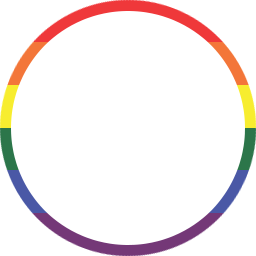
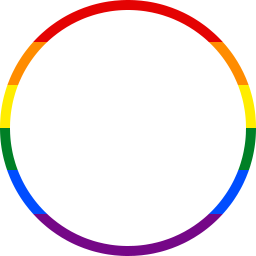
4.5.4

Changed region(s): [[0.0, 0.0, 1.0, 1.0]]

diff --git a/src/commands/images/pride.js b/src/commands/images/pride.js
@@ -13,13 +13,14 @@ function pride(client, evt, suffix, lang) {
   let flagSuffix = suffix.split(' ')[0];
 
   if (flagSuffix === 'gay') flagSuffix = 'rainbow';
+  if (flagSuffix === 'lgbt') flagSuffix = 'rainbow';
   if (flagSuffix === 'bi') flagSuffix = 'bisexual';
   if (flagSuffix === 'pan') flagSuffix = 'pansexual';
   if (flagSuffix === 'trans') flagSuffix = 'transgender';
   if (flagSuffix === 'enby') flagSuffix = 'nonbinary';
   if (flagSuffix === 'ally') flagSuffix = 'straightally';
 
-  let flagArray = ['ace', 'bear', 'bisexual', 'genderfluid', 'genderqueer', 'lesbian', 'nonbinary', 'pansexual', 'rainbow', 'straight', 'straightally', 'transgender'];
+  let flagArray = ['ace', 'aro', 'aroace', 'bear', 'bisexual', 'demi', 'genderfluid', 'genderqueer', 'lesbian', 'nonbinary', 'pansexual', 'rainbow', 'rainbowpastel', 'straight', 'straightally', 'transgender'];
   let validSuffix = (flagArray.indexOf(flagSuffix) > -1);
   let doStraight;
   let doBorder = suffix.includes('border');

diff --git a/CHANGELOG.md b/CHANGELOG.md
@@ -1,3 +1,19 @@
+<a name="4.5.4" />
+
+# 4.5.4 (May 6th, 2020)
+
+### Features
+Pride command features:
+- [ADDED] Aro Flag
+- [ADDED] AroAce Flag
+- [ADDED] Demi Flag
+- [UPDATED] Rainbow Flag
+- [ADDED] Rainbow Flag (Pastel version)
+
+### Full Changelog
+https://fur.im/changelog/
+
+
 <a name="4.5.3" />
 
 # 4.5.3 (April 7th, 2020)
